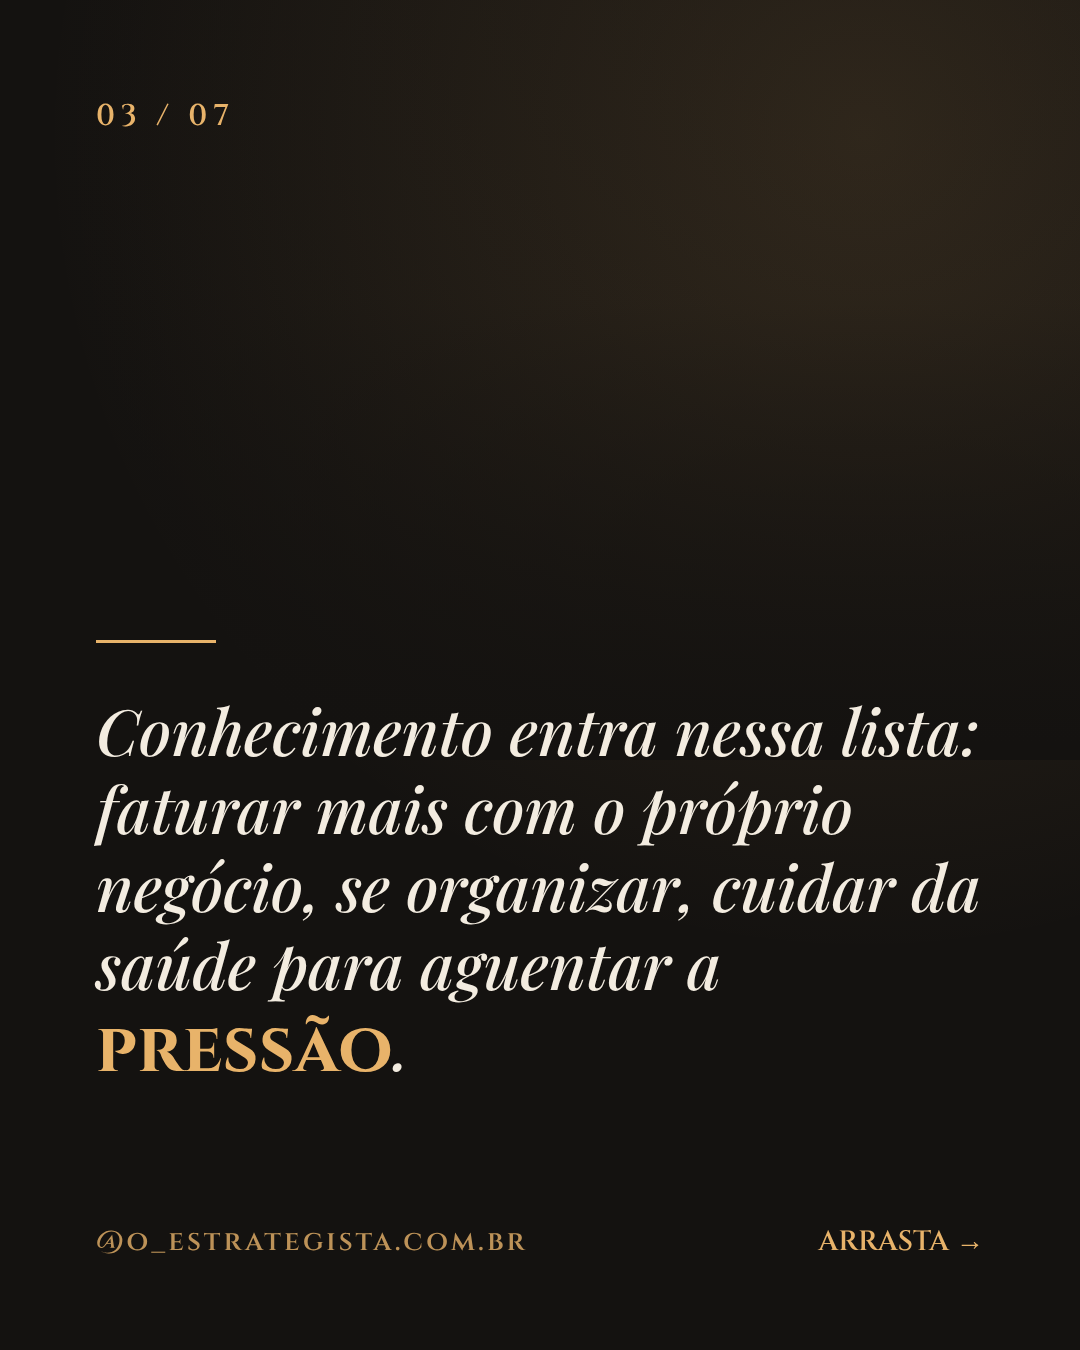
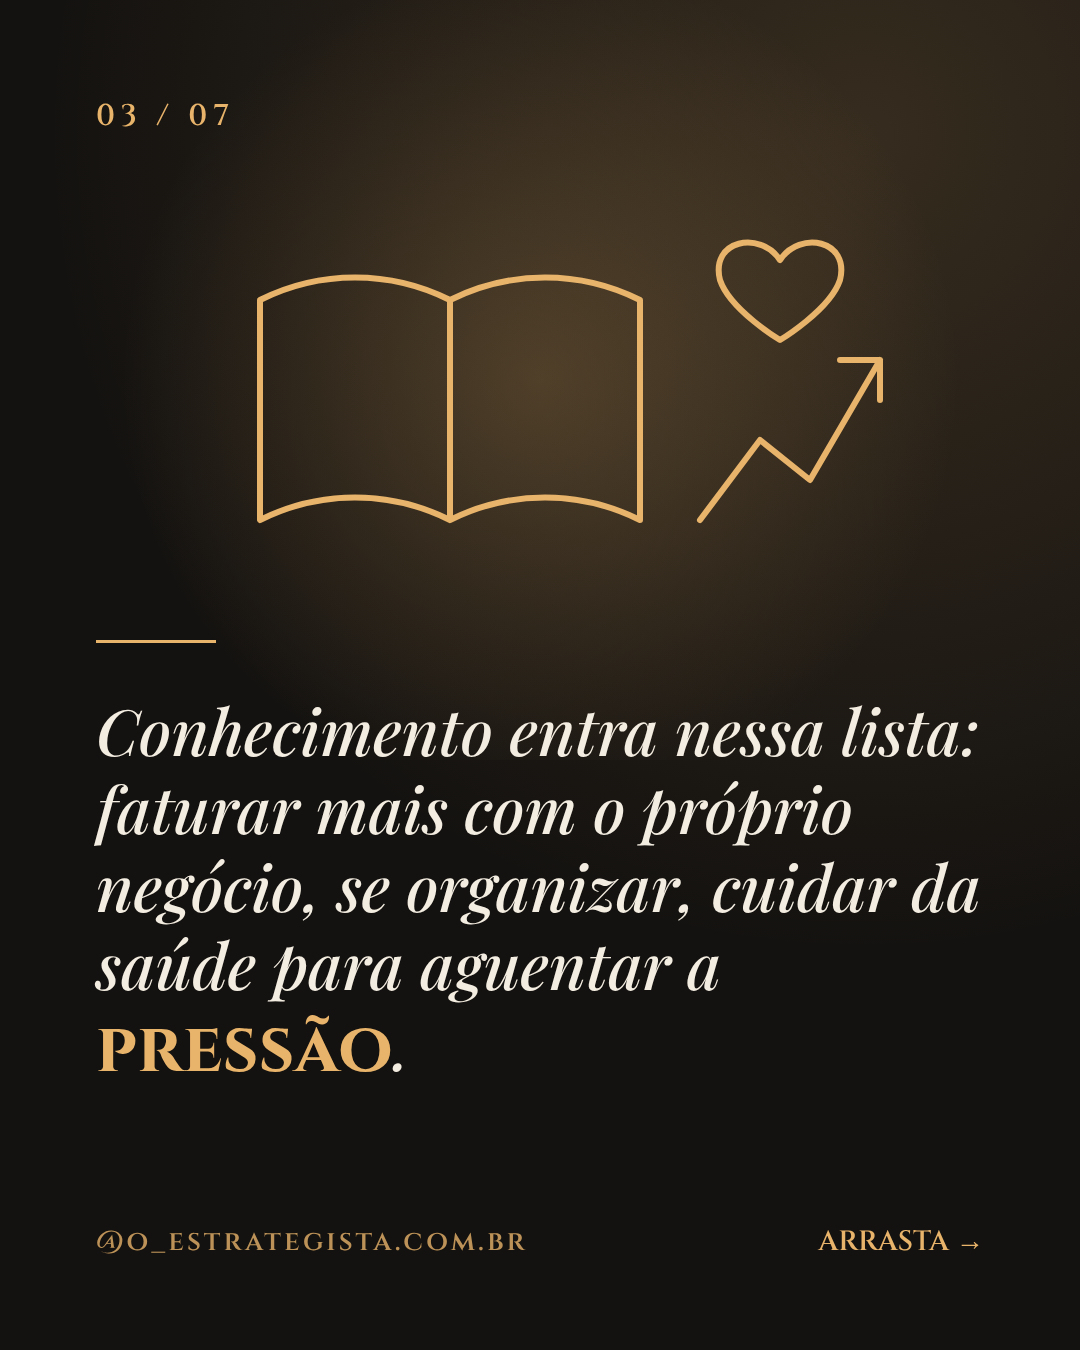
Carrossel da eleição com ilustrações em ouro no lugar das fotos
Claude-Session: https://claude.ai/code/session_01D6NtRh1ZFd58NJkYdfc4eK

diff --git a/estaticos/carrossel-eleicao/c.html b/estaticos/carrossel-eleicao/c.html
@@ -4,14 +4,14 @@
 body{margin:0;width:1080px;height:1350px;background:#141210;color:#f3ece0;overflow:hidden}
 #s{position:absolute;inset:0;padding:640px 96px 150px;box-sizing:border-box;display:flex;flex-direction:column;justify-content:flex-start;
 background:radial-gradient(circle at 80% 10%,rgba(232,179,106,.16),transparent 55%),#141210}
-.img{position:absolute;left:0;top:0;width:1080px;height:760px;background-size:cover;background-position:center 25%}.img:after{content:'';position:absolute;inset:0;background:linear-gradient(rgba(20,18,16,.25),rgba(20,18,16,.15) 40%,#141210 98%)}
+.img{position:absolute;left:0;top:0;width:1080px;height:760px;background-size:cover;background-position:center 25%}
 .n{z-index:2;font:600 30px Cinzel;color:#E8B36A;letter-spacing:6px;position:absolute;top:96px;left:96px}
 .f,.t{position:relative;z-index:2}.f{height:3px;width:120px;background:#E8B36A;margin-bottom:48px}
 .t{font:italic 64px/1.22 Pf}.t b{font:700 70px Cinzel;color:#E8B36A;font-style:normal}
 .c .t{font-size:80px}.a{position:absolute;bottom:90px;left:96px;font:600 28px Cinzel;color:#E8B36A;opacity:.8;letter-spacing:3px}
 .p{position:absolute;bottom:90px;right:96px;font:600 28px Cinzel;color:#E8B36A}
 </style><div id=s></div><script>
-const I=['f1.jpg','f5.jpg','f3.jpg','f2.jpg','f4.jpg','f5.jpg','f1.jpg'];const L=[
+const SV=["<path fill=\"none\" stroke=\"#E8B36A\" stroke-width=\"6\" stroke-linecap=\"round\" stroke-linejoin=\"round\" d=\"M540 140v60M510 170h60M490 230h100l-20 60h-60zM500 290c-10 90-30 160-60 220h200c-30-60-50-130-60-220M410 510h260v40H410z\"/><path stroke=\"#E8B36A\" stroke-width=\"2\" opacity=\".4\" d=\"M240 600h600M300 640h480M200 600l-60 100M880 600l60 100\"/>", "<path fill=\"none\" stroke=\"#E8B36A\" stroke-width=\"6\" stroke-linecap=\"round\" stroke-linejoin=\"round\" d=\"M540 470V330M540 380c-60-10-90-60-80-110 60 0 90 40 80 110M540 350c50-20 70-70 60-110-50 10-70 50-60 110\"/><path fill=\"none\" stroke=\"#E8B36A\" stroke-width=\"6\" stroke-linecap=\"round\" stroke-linejoin=\"round\" d=\"M330 420c40 120 120 170 210 170s170-50 210-170M330 420c-20-40 10-70 40-50l60 90M750 420c20-40-10-70-40-50l-60 90\"/>", "<path fill=\"none\" stroke=\"#E8B36A\" stroke-width=\"6\" stroke-linecap=\"round\" stroke-linejoin=\"round\" d=\"M260 520V300c60-30 130-30 190 0v220c-60-30-130-30-190 0zM450 300c60-30 130-30 190 0v220c-60-30-130-30-190 0\"/><path fill=\"none\" stroke=\"#E8B36A\" stroke-width=\"6\" stroke-linecap=\"round\" stroke-linejoin=\"round\" d=\"M700 520l60-80 50 40 70-120M840 360h40v40\"/><path fill=\"none\" stroke=\"#E8B36A\" stroke-width=\"6\" stroke-linecap=\"round\" stroke-linejoin=\"round\" d=\"M780 260c-20-30-70-20-60 20 10 30 60 60 60 60s50-30 60-60c10-40-40-50-60-20z\"/>", "<rect x=\"420\" y=\"190\" width=\"240\" height=\"420\" rx=\"30\" fill=\"none\" stroke=\"#E8B36A\" stroke-width=\"6\" stroke-linecap=\"round\" stroke-linejoin=\"round\"/><path fill=\"none\" stroke=\"#E8B36A\" stroke-width=\"6\" stroke-linecap=\"round\" stroke-linejoin=\"round\" d=\"M500 340c0-40 80-50 80 0 0 40-40 40-40 80M540 470v4\"/><path fill=\"none\" stroke=\"#E8B36A\" stroke-width=\"6\" stroke-linecap=\"round\" stroke-linejoin=\"round\" opacity=\".5\" d=\"M360 300l-50-20M360 380h-60M720 300l50-20M720 380h60\"/>", "<path fill=\"none\" stroke=\"#E8B36A\" stroke-width=\"6\" stroke-linecap=\"round\" stroke-linejoin=\"round\" d=\"M220 580h160v-80h160v-80h160v-80h120\"/><path fill=\"none\" stroke=\"#E8B36A\" stroke-width=\"6\" stroke-linecap=\"round\" stroke-linejoin=\"round\" d=\"M760 340V160h120v180\"/><circle cx=\"860\" cy=\"260\" r=\"6\" fill=\"#E8B36A\"/><path fill=\"none\" stroke=\"#E8B36A\" stroke-width=\"6\" stroke-linecap=\"round\" stroke-linejoin=\"round\" opacity=\".5\" d=\"M300 470l40-40M460 390l40-40M620 310l40-40\"/>", "<circle cx=\"540\" cy=\"220\" r=\"44\" fill=\"none\" stroke=\"#E8B36A\" stroke-width=\"6\" stroke-linecap=\"round\" stroke-linejoin=\"round\"/><path fill=\"none\" stroke=\"#E8B36A\" stroke-width=\"6\" stroke-linecap=\"round\" stroke-linejoin=\"round\" d=\"M460 380c0-60 40-100 80-100s80 40 80 100\"/><path fill=\"none\" stroke=\"#E8B36A\" stroke-width=\"6\" stroke-linecap=\"round\" stroke-linejoin=\"round\" d=\"M400 400h280\"/><circle cx=\"300\" cy=\"510\" r=\"26\" fill=\"none\" stroke=\"#E8B36A\" stroke-width=\"6\" stroke-linecap=\"round\" stroke-linejoin=\"round\"/><path fill=\"none\" stroke=\"#E8B36A\" stroke-width=\"6\" stroke-linecap=\"round\" stroke-linejoin=\"round\" d=\"M255 600c0-40 20-60 45-60s45 20 45 60\"/><circle cx=\"420\" cy=\"510\" r=\"26\" fill=\"none\" stroke=\"#E8B36A\" stroke-width=\"6\" stroke-linecap=\"round\" stroke-linejoin=\"round\"/><path fill=\"none\" stroke=\"#E8B36A\" stroke-width=\"6\" stroke-linecap=\"round\" stroke-linejoin=\"round\" d=\"M375 600c0-40 20-60 45-60s45 20 45 60\"/><circle cx=\"540\" cy=\"510\" r=\"26\" fill=\"none\" stroke=\"#E8B36A\" stroke-width=\"6\" stroke-linecap=\"round\" stroke-linejoin=\"round\"/><path fill=\"none\" stroke=\"#E8B36A\" stroke-width=\"6\" stroke-linecap=\"round\" stroke-linejoin=\"round\" d=\"M495 600c0-40 20-60 45-60s45 20 45 60\"/><circle cx=\"660\" cy=\"510\" r=\"26\" fill=\"none\" stroke=\"#E8B36A\" stroke-width=\"6\" stroke-linecap=\"round\" stroke-linejoin=\"round\"/><path fill=\"none\" stroke=\"#E8B36A\" stroke-width=\"6\" stroke-linecap=\"round\" stroke-linejoin=\"round\" d=\"M615 600c0-40 20-60 45-60s45 20 45 60\"/><circle cx=\"780\" cy=\"510\" r=\"26\" fill=\"none\" stroke=\"#E8B36A\" stroke-width=\"6\" stroke-linecap=\"round\" stroke-linejoin=\"round\"/><path fill=\"none\" stroke=\"#E8B36A\" stroke-width=\"6\" stroke-linecap=\"round\" stroke-linejoin=\"round\" d=\"M735 600c0-40 20-60 45-60s45 20 45 60\"/>", "<path fill=\"none\" stroke=\"#E8B36A\" stroke-width=\"6\" stroke-linecap=\"round\" stroke-linejoin=\"round\" d=\"M300 220h300a40 40 0 0 1 40 40v140a40 40 0 0 1-40 40H420l-70 60v-60h-50a40 40 0 0 1-40-40V260a40 40 0 0 1 40-40z\"/><path fill=\"none\" stroke=\"#E8B36A\" stroke-width=\"6\" stroke-linecap=\"round\" stroke-linejoin=\"round\" d=\"M340 300h220M340 360h160\"/><rect x=\"680\" y=\"300\" width=\"200\" height=\"220\" rx=\"20\" fill=\"none\" stroke=\"#E8B36A\" stroke-width=\"6\" stroke-linecap=\"round\" stroke-linejoin=\"round\"/><path fill=\"none\" stroke=\"#E8B36A\" stroke-width=\"6\" stroke-linecap=\"round\" stroke-linejoin=\"round\" d=\"M680 360h200M730 280v40M830 280v40M720 420h30M790 420h30M720 470h30\"/>"];const I=['f1.jpg','f5.jpg','f3.jpg','f2.jpg','f4.jpg','f5.jpg','f1.jpg'];const L=[
 'Eleição decidida. O que muda no seu próximo <b>lançamento</b>?',
 'Quando o cenário é incerto, o cliente não para de comprar. Ele compra o que protege o <b>futuro</b> dele.',
 'Conhecimento entra nessa lista: faturar mais com o próprio negócio, se organizar, cuidar da saúde para aguentar a <b>pressão</b>.',
@@ -20,5 +20,5 @@ const I=['f1.jpg','f5.jpg','f3.jpg','f2.jpg','f4.jpg','f5.jpg','f1.jpg'];const L
 'Quem só grita oferta vai sentir o mercado travar. Quem conduz a conversa encontra um público mais <b>atento</b>.',
 'Vai lançar nos próximos 90 dias? Me manda a sua área no <b>direct</b>.'];
 function render(i){document.getElementById('s').className=i==0?'c':'';document.getElementById('s').innerHTML=
-`<div class=img style="background-image:url(/home/user/Disparo-/estaticos/stories-frases/${I[i]})"></div><div class=n>${i==0?'O ESTRATEGISTA':'0'+(i+1)+' / 07'}</div><div class=f></div><div class=t>${L[i]}</div><div class=a>@o_estrategista.com.br</div>${i<6?'<div class=p>ARRASTA →</div>':''}`}
+`<svg class=img viewBox='0 0 1080 760'><defs><radialGradient id=g><stop offset=0 stop-color='#E8B36A' stop-opacity='.22'/><stop offset=1 stop-color='#E8B36A' stop-opacity='0'/></radialGradient></defs><circle cx=540 cy=380 r=420 fill='url(#g)'/>${SV[i]}</svg><div class=n>${i==0?'O ESTRATEGISTA':'0'+(i+1)+' / 07'}</div><div class=f></div><div class=t>${L[i]}</div><div class=a>@o_estrategista.com.br</div>${i<6?'<div class=p>ARRASTA →</div>':''}`}
 </script>
